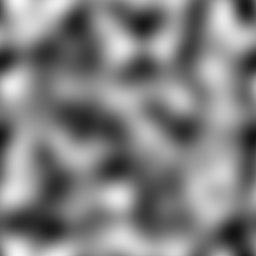
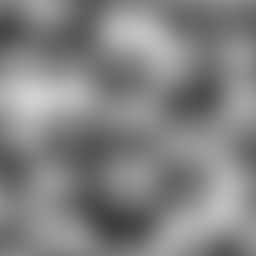
Move to perm tables

diff --git a/src/noisier.rs b/src/noisier.rs
@@ -1,12 +1,10 @@
 extern crate sorting_rs as sort;
-extern crate rand;
+extern crate rand as rand;
 use self::rand::prelude::*;
 use self::sort::*;
 use std::{f64::consts::PI, fmt};
-use std::collections::hash_map::DefaultHasher;
-use std::hash::{Hash, Hasher};
 
-pub trait NoiseMachine<'a> {
+pub trait NoiseMachine<'a, const RES: usize> {
     fn new() -> Self;
     fn from_seed(seed: u64) -> Self;
     fn set_seed(&'a mut self, seed: u64);
@@ -69,8 +67,8 @@ pub trait NoiseMachine<'a> {
         offset: &Vec<f64>,
         weight: f64,
         bias: f64,
-    ) -> ContinuousNoise<'a, Self> {
-        ContinuousNoise::<'a, Self>::new(
+    ) -> ContinuousNoise<'a, Self, RES> {
+        ContinuousNoise::<'a, Self, RES>::new(
             self,
             dim,
             scale.clone(),
@@ -86,8 +84,8 @@ pub trait NoiseMachine<'a> {
         offset: &Vec<f64>,
         weight: f64,
         bias: f64,
-    ) -> RecurrentNoise<'a, Self> {
-        RecurrentNoise::<'a, Self>::new(
+    ) -> RecurrentNoise<'a, Self, RES> {
+        RecurrentNoise::<'a, Self, RES>::new(
             self,
             dim,
             scale.clone(),
@@ -99,11 +97,12 @@ pub trait NoiseMachine<'a> {
 }
 
 #[derive(Clone)]
-pub struct PerlinNoiseMachine where {
+pub struct PerlinNoiseMachine<const RES: usize> where {
     seed: u64,
-    randoms: [u64; usize::BITS as usize],
+    rand: [usize; usize::BITS as usize],
+    perm: [usize; RES],
 }
-impl PerlinNoiseMachine {
+impl <const RES: usize> PerlinNoiseMachine<RES> {
     fn corner_dot(&self, corner: &Vec<u32>, sample: &Vec<f64>) -> f64 {
         let dim = sample.len();
         let grad = self.get_gradient(&corner);
@@ -115,48 +114,71 @@ impl PerlinNoiseMachine {
     }
     fn get_gradient(&self, corner: &Vec<u32>) -> Vec<f64> {
         let dim = corner.len();
+        let p = self.perm;
+        if dim == 1 {
+            return vec![(p[corner[0] as usize % RES] / (RES - 1) * 2 - 1) as f64];
+        }
         let mut angles: Vec<f64> = Vec::with_capacity(dim - 1);
-        let mut vector = Vec::with_capacity(dim);
+        let mut vector = vec![1.0; dim];
         for i in 0..dim - 1 {
-            let mut s = DefaultHasher::new();
-            self.randoms[i].hash(&mut s);
-            corner.hash(&mut s);
-            dim.hash(&mut s);
-            let random = s.finish();
-            angles.push((random as f64 / u64::MAX as f64) * 2.0 * PI);
-            vector.push(1.0);
+            let mut random = self.rand[i];
+            for coord in corner {
+                random = p[(random + (*coord as usize % RES)) % RES]
+            }
+            angles.push((random as f64 / (RES - 1) as f64) * 2.0 * PI);
             for k in 0..i {
                 vector[i] *= angles[k].sin();
             }
             vector[i] *= angles[i].cos();
-        }
-        vector.push(1.0);
-        for i in 0..dim - 1 {
             vector[dim - 1] *= angles[i].sin();
         }
         vector
     }
 }
-impl <'a> NoiseMachine<'a> for PerlinNoiseMachine {
+impl <'a, const RES: usize> NoiseMachine<'a, RES> for PerlinNoiseMachine<RES> {
     fn new() -> Self {
         let seed = thread_rng().gen();
         let mut rng = StdRng::seed_from_u64(seed);
-        let mut randoms = [0; usize::BITS as usize];
-        rng.fill(&mut randoms);
-        Self { seed, randoms }
+        let mut rand = [0usize; usize::BITS as usize];
+        for val in rand.iter_mut(){
+            *val = rng.gen_range(0..RES)
+        };
+        let mut perm = [0usize; RES];
+        for i in 0..RES{
+            perm[i] = i;
+        };
+        perm.shuffle(&mut rng);
+        Self { seed, perm, rand }
     }
     fn from_seed(seed: u64) -> Self {
         let mut rng = StdRng::seed_from_u64(seed);
-        let mut randoms = [0; usize::BITS as usize];
-        rng.fill(&mut randoms);
-        Self { seed, randoms }
+        let mut rand = [0usize; usize::BITS as usize];
+        for val in rand.iter_mut(){
+            *val = rng.gen_range(0..RES)
+        };
+        let mut perm = [0usize; RES];
+        for i in 0..RES{
+            perm[i] = i;
+        };
+        perm.shuffle(&mut rng);
+        Self { seed, perm, rand }
     }
     fn set_seed(&'a mut self, seed: u64) {
-        let mut rng = StdRng::seed_from_u64(seed);
-        let mut randoms = [0; usize::BITS as usize];
-        rng.fill(&mut randoms);
         self.seed = seed;
-        self.randoms = randoms;
+        let mut rng = StdRng::seed_from_u64(seed);
+        {
+            let mut rand = [0usize; usize::BITS as usize];
+            for val in rand.iter_mut(){
+                *val = rng.gen_range(0..RES)
+            };
+            self.rand = rand;
+        }
+        let mut perm = [0usize; RES];
+        for i in 0..RES{
+            perm[i] = i;
+        };
+        perm.shuffle(&mut rng);
+        self.perm = perm;
     }
     fn seed(&'a self) -> u64 {
         self.seed
@@ -192,66 +214,90 @@ impl <'a> NoiseMachine<'a> for PerlinNoiseMachine {
             }
             out.clone_from(&new_out);
         }
-        (out[0] * 5.0 / 3.0).clamp(-1.0, 1.0)
+        out[0]
     }
 }
-impl fmt::Debug for PerlinNoiseMachine {
+impl <const RES: usize> fmt::Debug for PerlinNoiseMachine::<RES> {
     fn fmt(&self, f: &mut fmt::Formatter) -> fmt::Result {
         write!(f, "PerlinNoiseMachine{{seed: {}}}", self.seed)
     }
 }
 
 #[derive(Clone)]
-pub struct SimplexNoiseMachine where {
+pub struct SimplexNoiseMachine<const RES: usize> where {
     seed: u64,
-    randoms: [u64; usize::BITS as usize],
+    rand: [usize; usize::BITS as usize],
+    perm: [usize; RES],
 }
-impl SimplexNoiseMachine {
+impl <const RES: usize> SimplexNoiseMachine<RES> {
     fn get_gradient(&self, corner: &Vec<f64>) -> Vec<f64> {
         let dim = corner.len();
+        let p = self.perm;
+        if dim == 1 {
+            return vec![(p[corner[0] as usize % RES] / (RES - 1) * 2 - 1) as f64];
+        }
         let mut angles: Vec<f64> = Vec::with_capacity(dim - 1);
-        let mut vector = Vec::with_capacity(dim);
+        let mut vector = vec![1.0; dim];
         for i in 0..dim - 1 {
-            let mut s = DefaultHasher::new();
-            self.randoms[i].hash(&mut s);
-            let corner: Vec<u32> = corner.iter().map(|float| float.clone() as u32).collect();
-            corner.hash(&mut s);
-            dim.hash(&mut s);
-            let random = s.finish();
-            angles.push((random as f64 / u64::MAX as f64) * 2.0 * PI);
-            vector.push(1.0);
+            let mut random = self.rand[i];
+            for coord in corner {
+                random = p[(random + (*coord as usize % RES)) % RES]
+            }
+            angles.push((random as f64 / (RES - 1) as f64) * 2.0 * PI);
             for k in 0..i {
                 vector[i] *= angles[k].sin();
             }
             vector[i] *= angles[i].cos();
-        }
-        vector.push(1.0);
-        for i in 0..dim - 1 {
             vector[dim - 1] *= angles[i].sin();
         }
         vector
     }
 }
-impl <'a> NoiseMachine<'a> for SimplexNoiseMachine{
+impl <'a, const RES: usize> NoiseMachine<'a, RES> for SimplexNoiseMachine<RES> {
+    
     fn new() -> Self {
         let seed = thread_rng().gen();
         let mut rng = StdRng::seed_from_u64(seed);
-        let mut randoms = [0; usize::BITS as usize];
-        rng.fill(&mut randoms);
-        Self { seed, randoms }
+        let mut rand = [0usize; usize::BITS as usize];
+        for val in rand.iter_mut(){
+            *val = rng.gen_range(0..RES)
+        };
+        let mut perm = [0usize; RES];
+        for i in 0..RES{
+            perm[i] = i;
+        };
+        perm.shuffle(&mut rng);
+        Self { seed, perm, rand }
     }
     fn from_seed(seed: u64) -> Self {
         let mut rng = StdRng::seed_from_u64(seed);
-        let mut randoms = [0; usize::BITS as usize];
-        rng.fill(&mut randoms);
-        Self { seed, randoms }
+        let mut rand = [0usize; usize::BITS as usize];
+        for val in rand.iter_mut(){
+            *val = rng.gen_range(0..RES)
+        };
+        let mut perm = [0usize; RES];
+        for i in 0..RES{
+            perm[i] = i;
+        };
+        perm.shuffle(&mut rng);
+        Self { seed, perm, rand }
     }
     fn set_seed(&'a mut self, seed: u64) {
-        let mut rng = StdRng::seed_from_u64(seed);
-        let mut randoms = [0; usize::BITS as usize];
-        rng.fill(&mut randoms);
         self.seed = seed;
-        self.randoms = randoms;
+        let mut rng = StdRng::seed_from_u64(seed);
+        {
+            let mut rand = [0usize; usize::BITS as usize];
+            for val in rand.iter_mut(){
+                *val = rng.gen_range(0..RES)
+            };
+            self.rand = rand;
+        }
+        let mut perm = [0usize; RES];
+        for i in 0..RES{
+            perm[i] = i;
+        };
+        perm.shuffle(&mut rng);
+        self.perm = perm;
     }
     fn seed(&'a self) -> u64 {
         self.seed
@@ -376,13 +422,13 @@ impl <'a> NoiseMachine<'a> for SimplexNoiseMachine{
         vals[0]
     }
 }
-impl fmt::Debug for SimplexNoiseMachine {
+impl <const RES: usize> fmt::Debug for SimplexNoiseMachine<RES> {
     fn fmt(&self, f: &mut fmt::Formatter) -> fmt::Result {
         write!(f, "SimplexNoiseMachine {{ seed: {} }}", self.seed)
     }
 }
 
-pub trait NoiseBuffer<'a, T> where T: NoiseMachine<'a> + ?Sized {
+pub trait NoiseBuffer<'a, T, const RES: usize> where T: NoiseMachine<'a, RES> + ?Sized {
     fn sample(&'a self, pos: &Vec<f64>) -> f64;
     fn machine(&'a self) -> &'a T;
     fn dim(&'a self) -> usize;
@@ -400,7 +446,7 @@ pub trait NoiseBuffer<'a, T> where T: NoiseMachine<'a> + ?Sized {
     ) -> Self;
 }
 #[derive(Clone, Debug)]
-pub struct ContinuousNoise<'a, T> where T: NoiseMachine<'a> + ?Sized {
+pub struct ContinuousNoise<'a, T, const RES: usize> where T: NoiseMachine<'a, RES> + ?Sized {
     machine: &'a T,
     dim: usize,
     scale: Vec<f64>,
@@ -409,7 +455,7 @@ pub struct ContinuousNoise<'a, T> where T: NoiseMachine<'a> + ?Sized {
     bias: f64,
 }
 
-impl<'a, T> NoiseBuffer<'a, T> for ContinuousNoise<'a, T> where T: NoiseMachine<'a> + ?Sized {
+impl <'a, T, const RES: usize> NoiseBuffer<'a, T, RES> for ContinuousNoise<'a, T, RES> where T: NoiseMachine<'a, RES> + ?Sized {
     fn sample(&'a self, pos: &Vec<f64>) -> f64 {
         self.machine.sample(
             self.dim,
@@ -460,7 +506,7 @@ impl<'a, T> NoiseBuffer<'a, T> for ContinuousNoise<'a, T> where T: NoiseMachine<
     }
 }
 #[derive(Clone, Debug)]
-pub struct RecurrentNoise<'a, T> where T: NoiseMachine<'a> + ?Sized {
+pub struct RecurrentNoise<'a, T, const RES: usize> where T: NoiseMachine<'a, RES> + ?Sized {
     machine: &'a T,
     dim: usize,
     scale: Vec<f64>,
@@ -469,7 +515,7 @@ pub struct RecurrentNoise<'a, T> where T: NoiseMachine<'a> + ?Sized {
     bias: f64,
 }
 
-impl<'a, T> NoiseBuffer<'a, T> for RecurrentNoise<'a, T> where T: NoiseMachine<'a> + ?Sized {
+impl <'a, T, const RES: usize> NoiseBuffer<'a, T, RES> for RecurrentNoise<'a, T, RES> where T: NoiseMachine<'a, RES> + ?Sized {
     fn sample(&self, pos: &Vec<f64>) -> f64 {
         self.machine.sample_tileable(
             self.dim,

diff --git a/src/lib.rs b/src/lib.rs
@@ -25,8 +25,8 @@ mod tests {
         const WIDTH: u32 = 256;
         const HEIGHT: u32 = 256;
 
-        let machine = SimplexNoiseMachine::new();
-        let buffer = machine.gen_recurrent(2, &vec![4.0; 2], &vec![0.0; 2], 1.0, 0.0);
+        let machine = PerlinNoiseMachine::<256>::new();
+        let buffer = machine.gen_continuous(2, &vec![4.0; 2], &vec![0.0; 2], 1.0, 0.0);
         
         {
             let mut image: RgbImage = RgbImage::new(WIDTH, HEIGHT);
@@ -38,8 +38,6 @@ mod tests {
                     {
                         //let val = buffer.sample(&vec![((i + WIDTH/2) % WIDTH) as f64 / WIDTH as f64, ((j + HEIGHT/2) % HEIGHT) as f64 / HEIGHT as f64]);
                         let val = buffer.sample(&vec![i as f64 / WIDTH as f64, j as f64 / HEIGHT as f64]);
-                        minimum = minimum.min(val as f64);
-                        maximum = maximum.max(val as f64);
                         Rgb::from([
                             ((val + 1.0) * 127.5).round().max(0.0) as u8,
                             ((val + 1.0) * 127.5).round().max(0.0) as u8,
